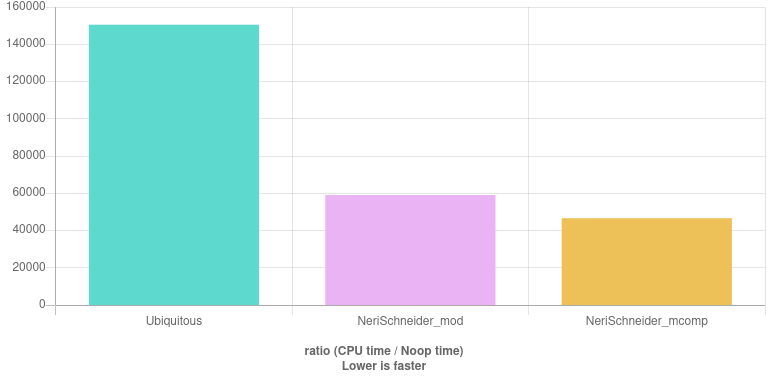
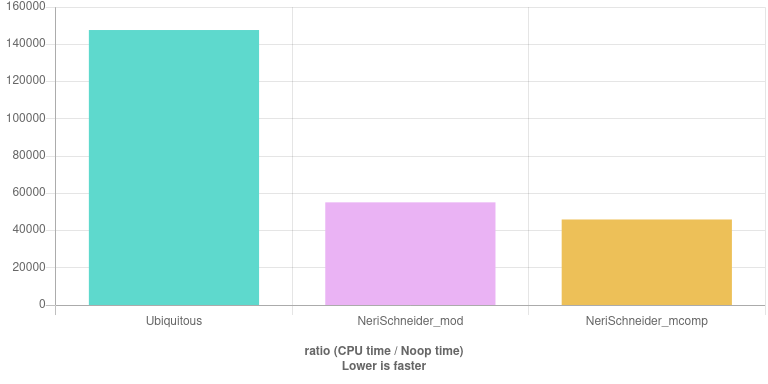
Use ternary operator ? in is_leap_year.

Changed region(s): [[0.4062, 0.5, 0.6562, 0.5312], [0.0938, 0.0625, 0.3438, 0.0938], [0.7188, 0.5625, 0.9375, 0.5938]]

diff --git a/benchmarks/is_leap_year.cpp b/benchmarks/is_leap_year.cpp
@@ -28,7 +28,7 @@ namespace neri_schneider::mod {
 // https://github.com/cassioneri/calendar/blob/master/calendar.hpp
 
 bool is_leap_year(year_t year) {
-  return (year % 100 != 0 || year % 400 == 0) && (year % 4 == 0);
+  return year % 100 == 0 ? year % 400 == 0 : year % 4 == 0;
 }
 }
 
@@ -43,7 +43,7 @@ bool is_multiple_of_100(int32_t n) {
 }
 
 bool is_leap_year(year_t year) {
-  return (!is_multiple_of_100(year) || year % 16 == 0) && (year % 4 == 0);
+  return is_multiple_of_100(year) ? year % 16 == 0 : year % 4 == 0;
 }
 }
 

diff --git a/README.md b/README.md
@@ -41,9 +41,9 @@ suggest that our algorithms perform considerably faster than others.
 2.5x faster than OpenJDK and
 3.2x faster than ReingoldDershowitz.
 
-[is_leap_year](https://quick-bench.com/q/ZhYkSzwHgnAzCdIGvHRXu2np8WM): Ubiquitous (the
+[is_leap_year](https://quick-bench.com/q/oY4i62AXH2yMk-XRRz7hKFqsKBI): Ubiquitous (the
 implementation used virtually everywhere) is
-2.5x slower than NeriSchneider_mod and
+2.7x slower than NeriSchneider_mod and
 3.2x slower than NeriSchneider_mcomp.
 
 [last_day_of_month](https://quick-bench.com/q/yZg62AlZGDx1dE8Wv-38qpwHR7c): NeriSchneider is
